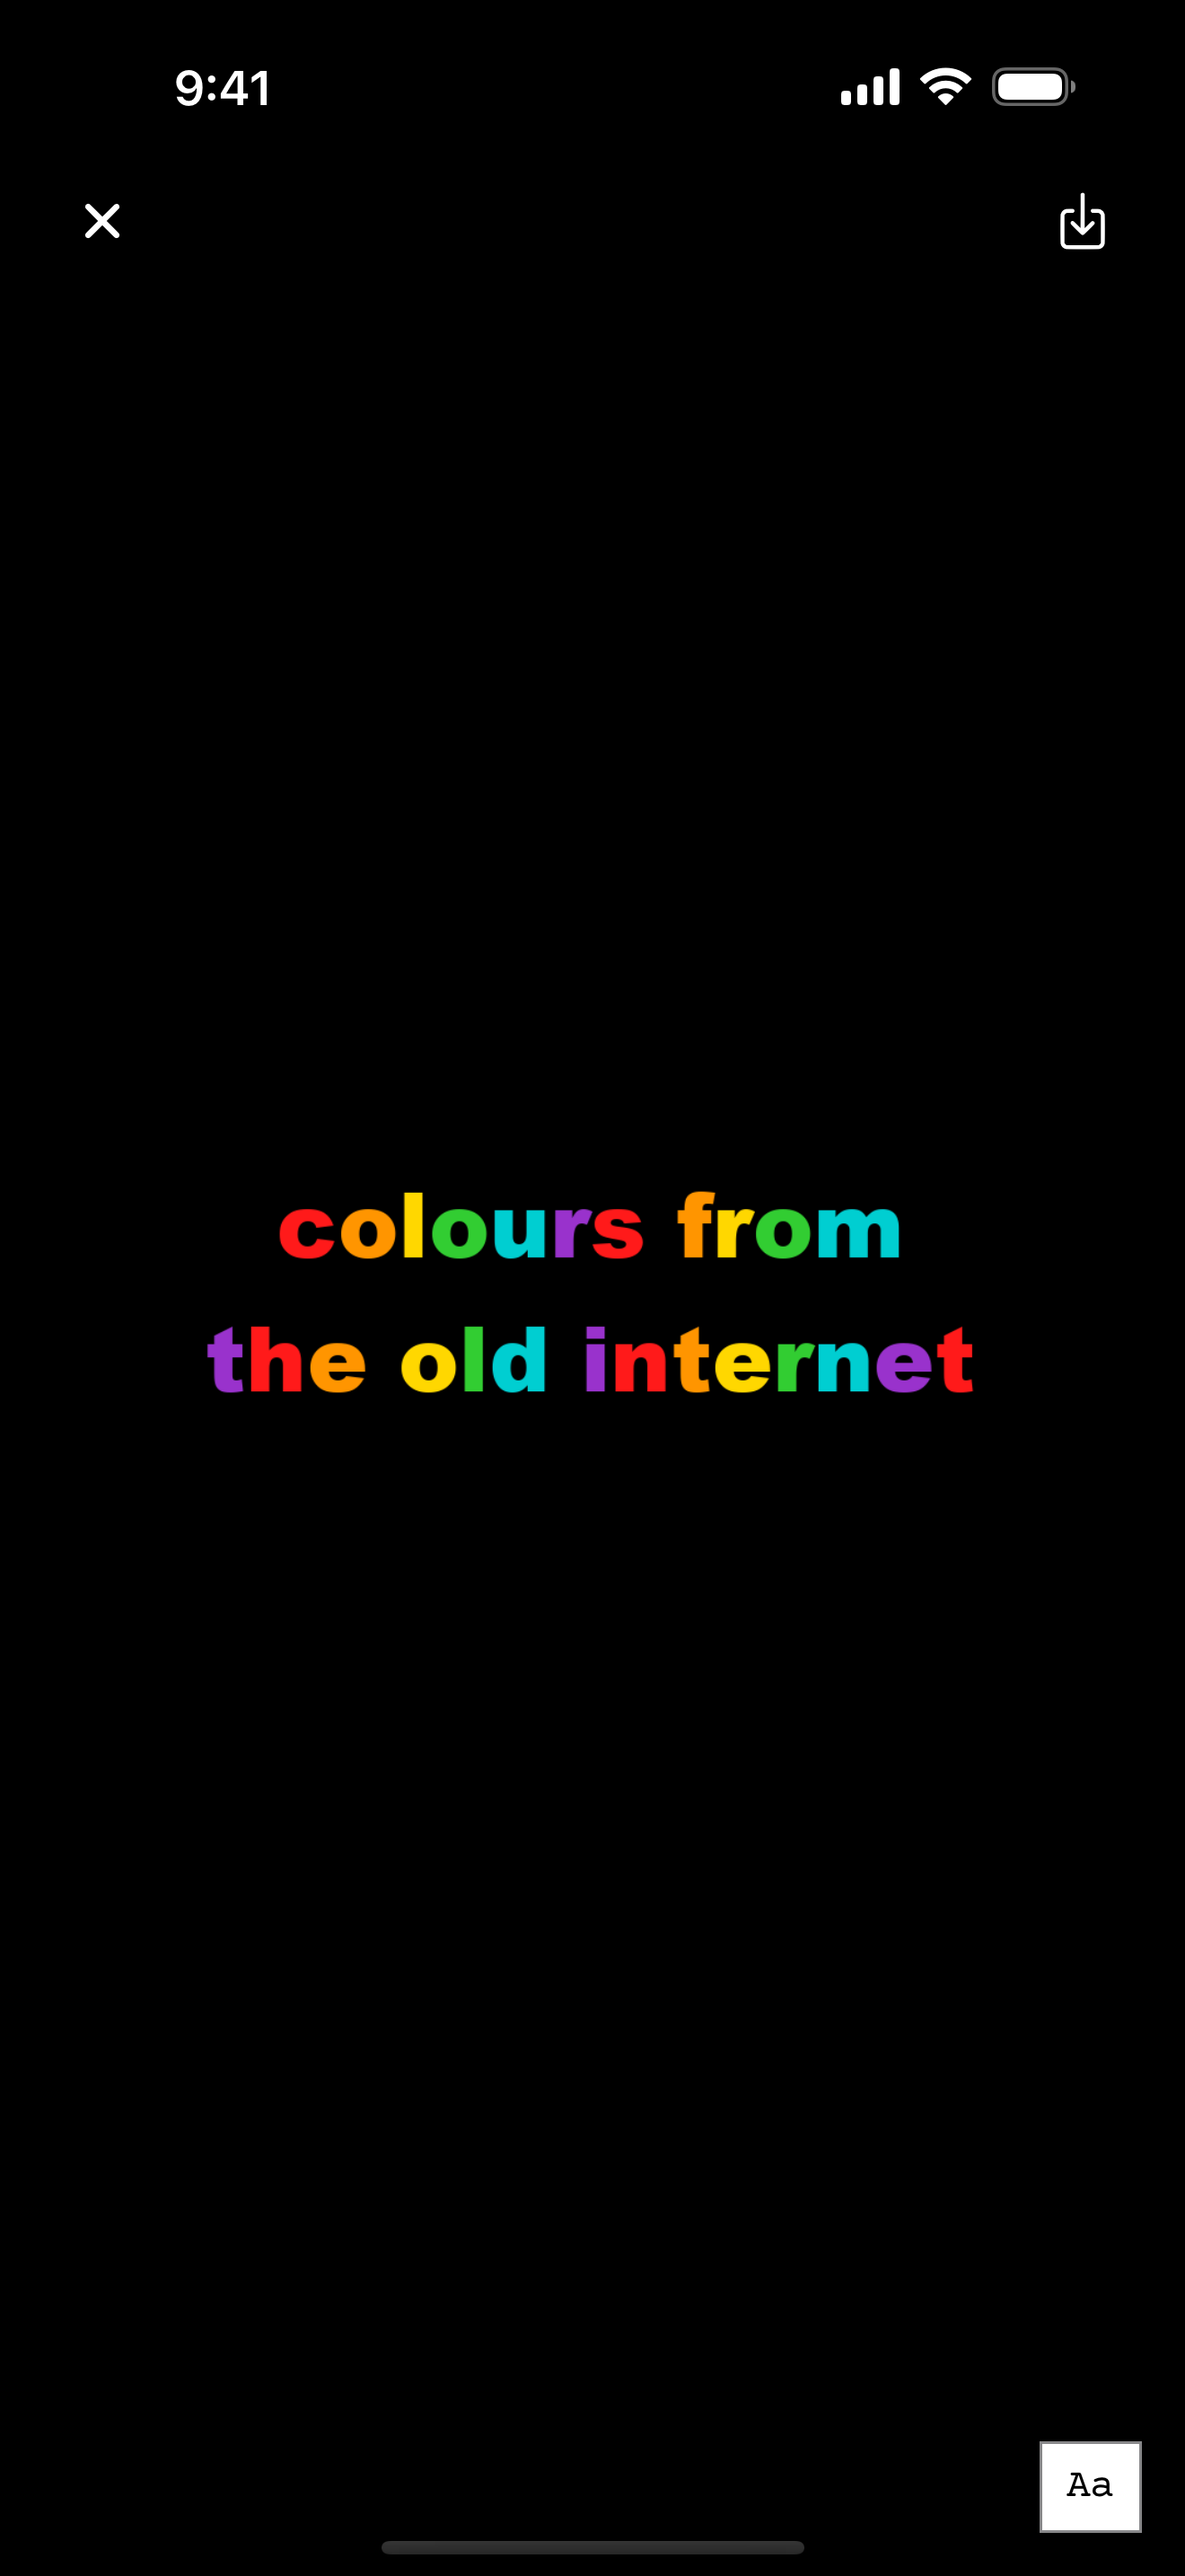
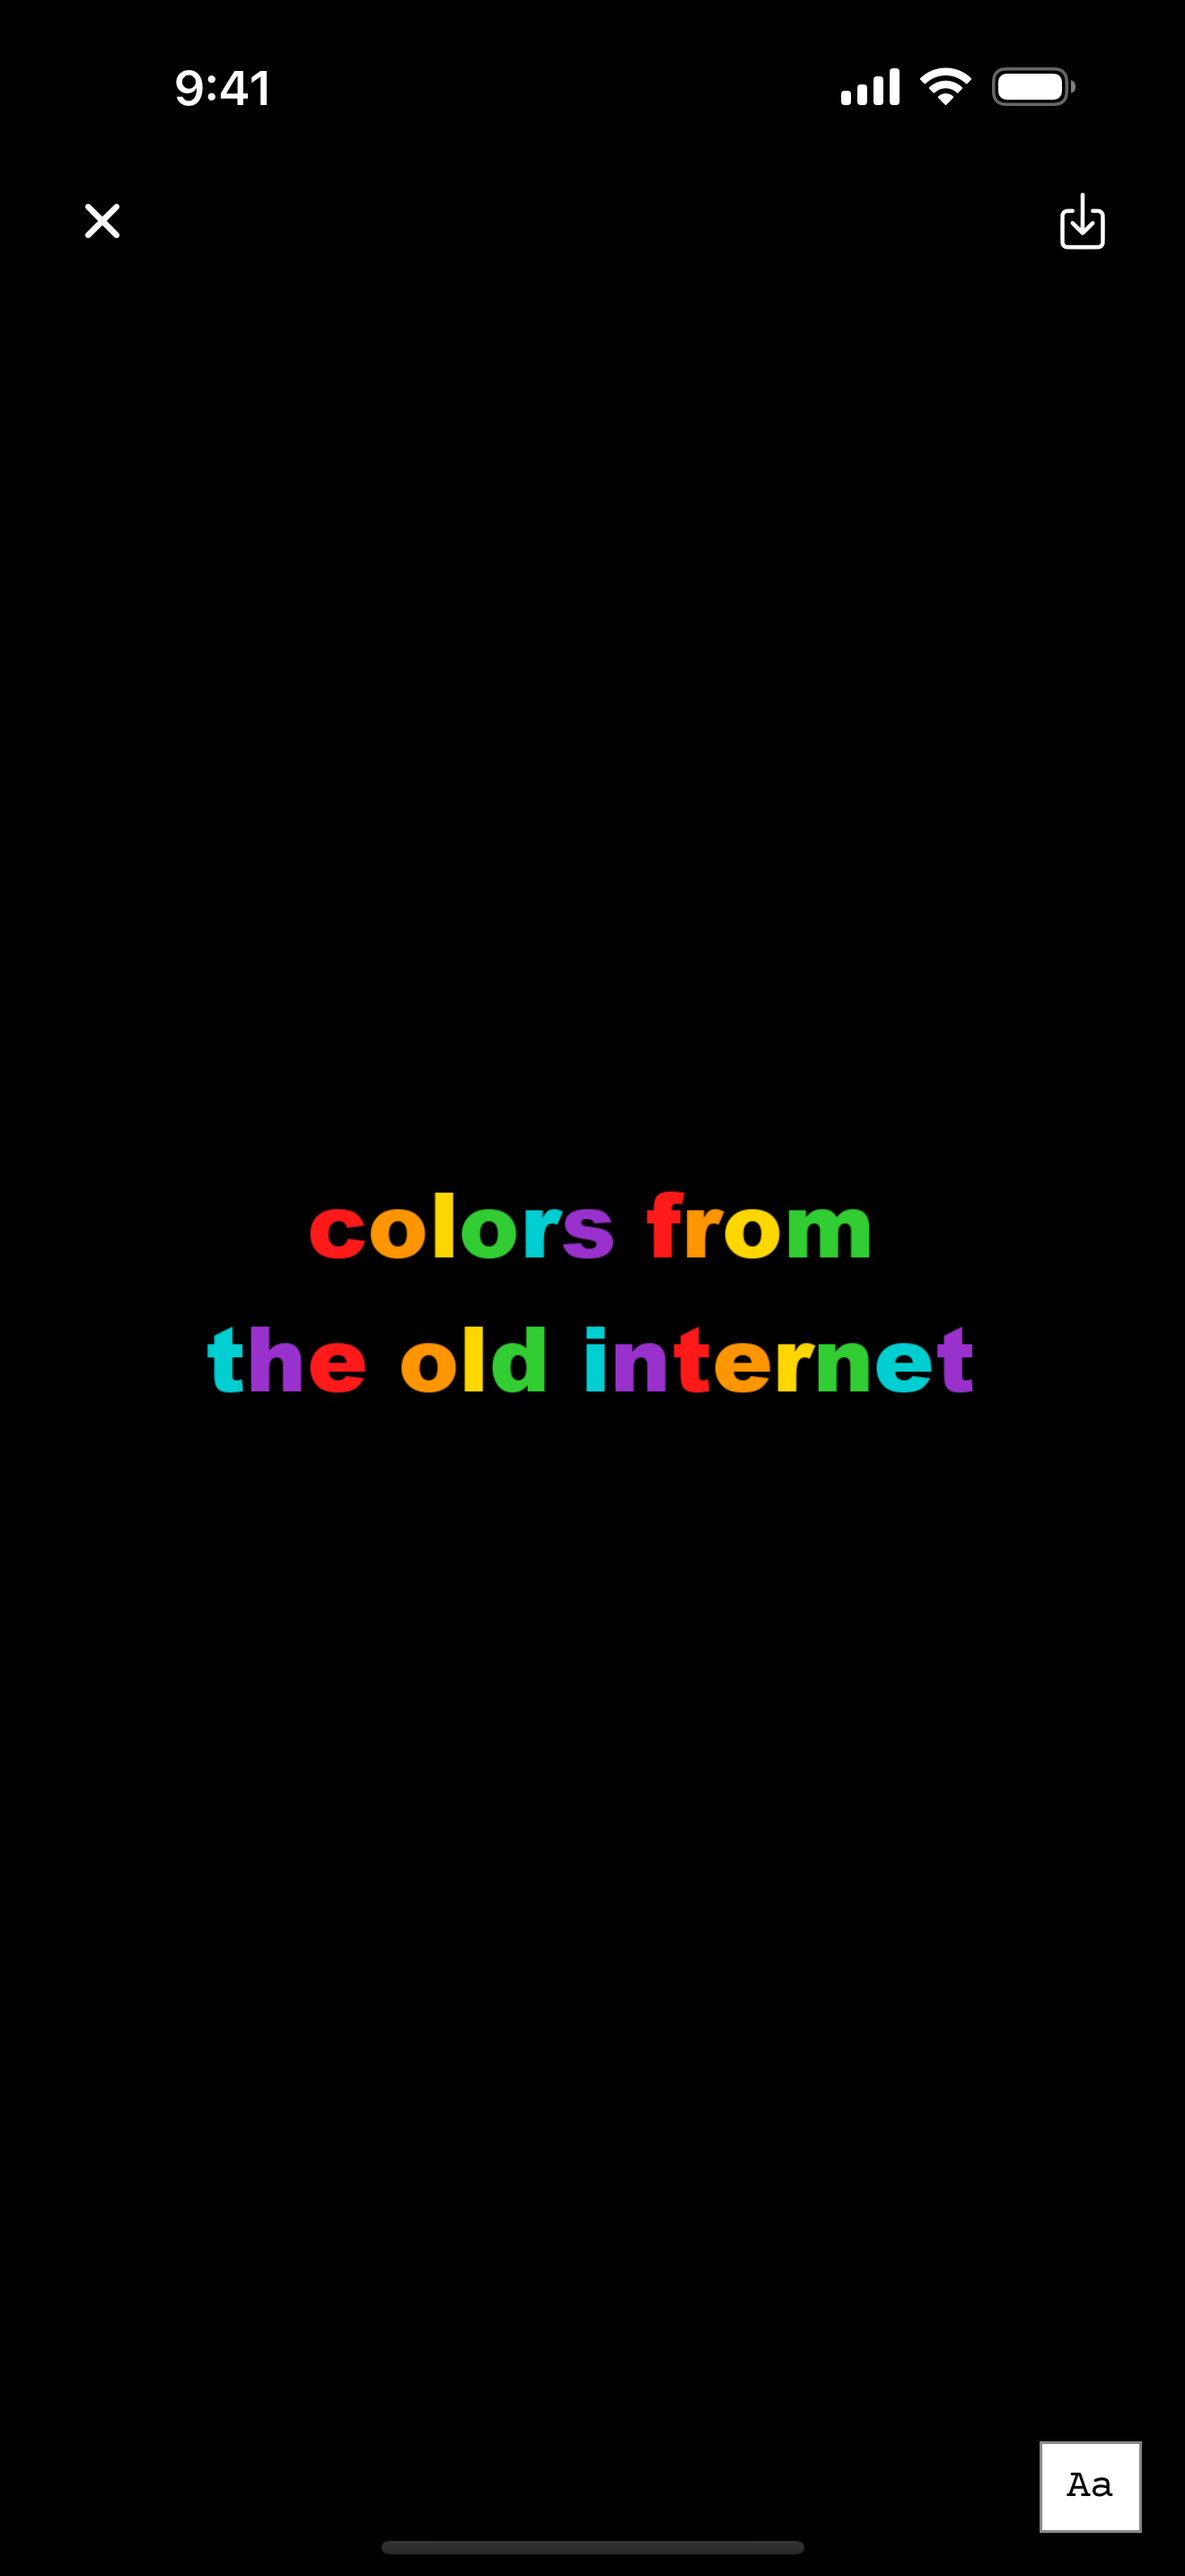
Screenshots: "colors", masthead contrasts the top post; feed status bar contrast
- Seed copy says "colors"; 01-feed and 04-detail retaken. The feed shot's
  masthead is re-rolled to blue so it no longer blends into the red post
  below it
- The feed's status bar picks light or dark ink against the masthead's
  current background (it re-rolls), same fix as the detail screen

Changed region(s): [[0.1864, 0.4655, 0.8386, 0.5586]]

diff --git a/frontend/src/screens/MainScreen.tsx b/frontend/src/screens/MainScreen.tsx
@@ -12,6 +12,7 @@ import {
   Pressable,
   Keyboard,
   TouchableWithoutFeedback,
+  StatusBar,
 } from 'react-native';
 import * as FileSystem from 'expo-file-system/legacy';
 import { api, endpoints, ONBOARD_FLAG } from '../config/api';
@@ -290,6 +291,17 @@ export default function MainScreen() {
 
   return (
     <View style={styles.container}>
+      {/* The status bar sits on the masthead, whose colours re-roll: pick its
+          ink against the masthead background, or the clock can vanish into it */}
+      <StatusBar
+        barStyle={
+          contrastRatio(hexToRgb(headerTheme.background), [255, 255, 255]) >=
+          contrastRatio(hexToRgb(headerTheme.background), [0, 0, 0])
+            ? 'light-content'
+            : 'dark-content'
+        }
+        animated
+      />
       {/* Collapsible Header */}
       <Animated.View
         onLayout={(e) => {

diff --git a/frontend/scripts/seed-store.ts b/frontend/scripts/seed-store.ts
@@ -72,7 +72,7 @@ async function main() {
     }),
   ]));
   await post('seed-otto', snapshot('#000000', [
-    el('colours from\nthe old internet', { fontFamily: 'arial-black', fontSize: 34, rainbow: true, y: 470 }),
+    el('colors from\nthe old internet', { fontFamily: 'arial-black', fontSize: 34, rainbow: true, y: 470 }),
   ]));
   await post('seed-maru', snapshot('#FAEBD7', [
     el('no likes. no followers.\nno algorithm.\nthe newest page is on top.', {
